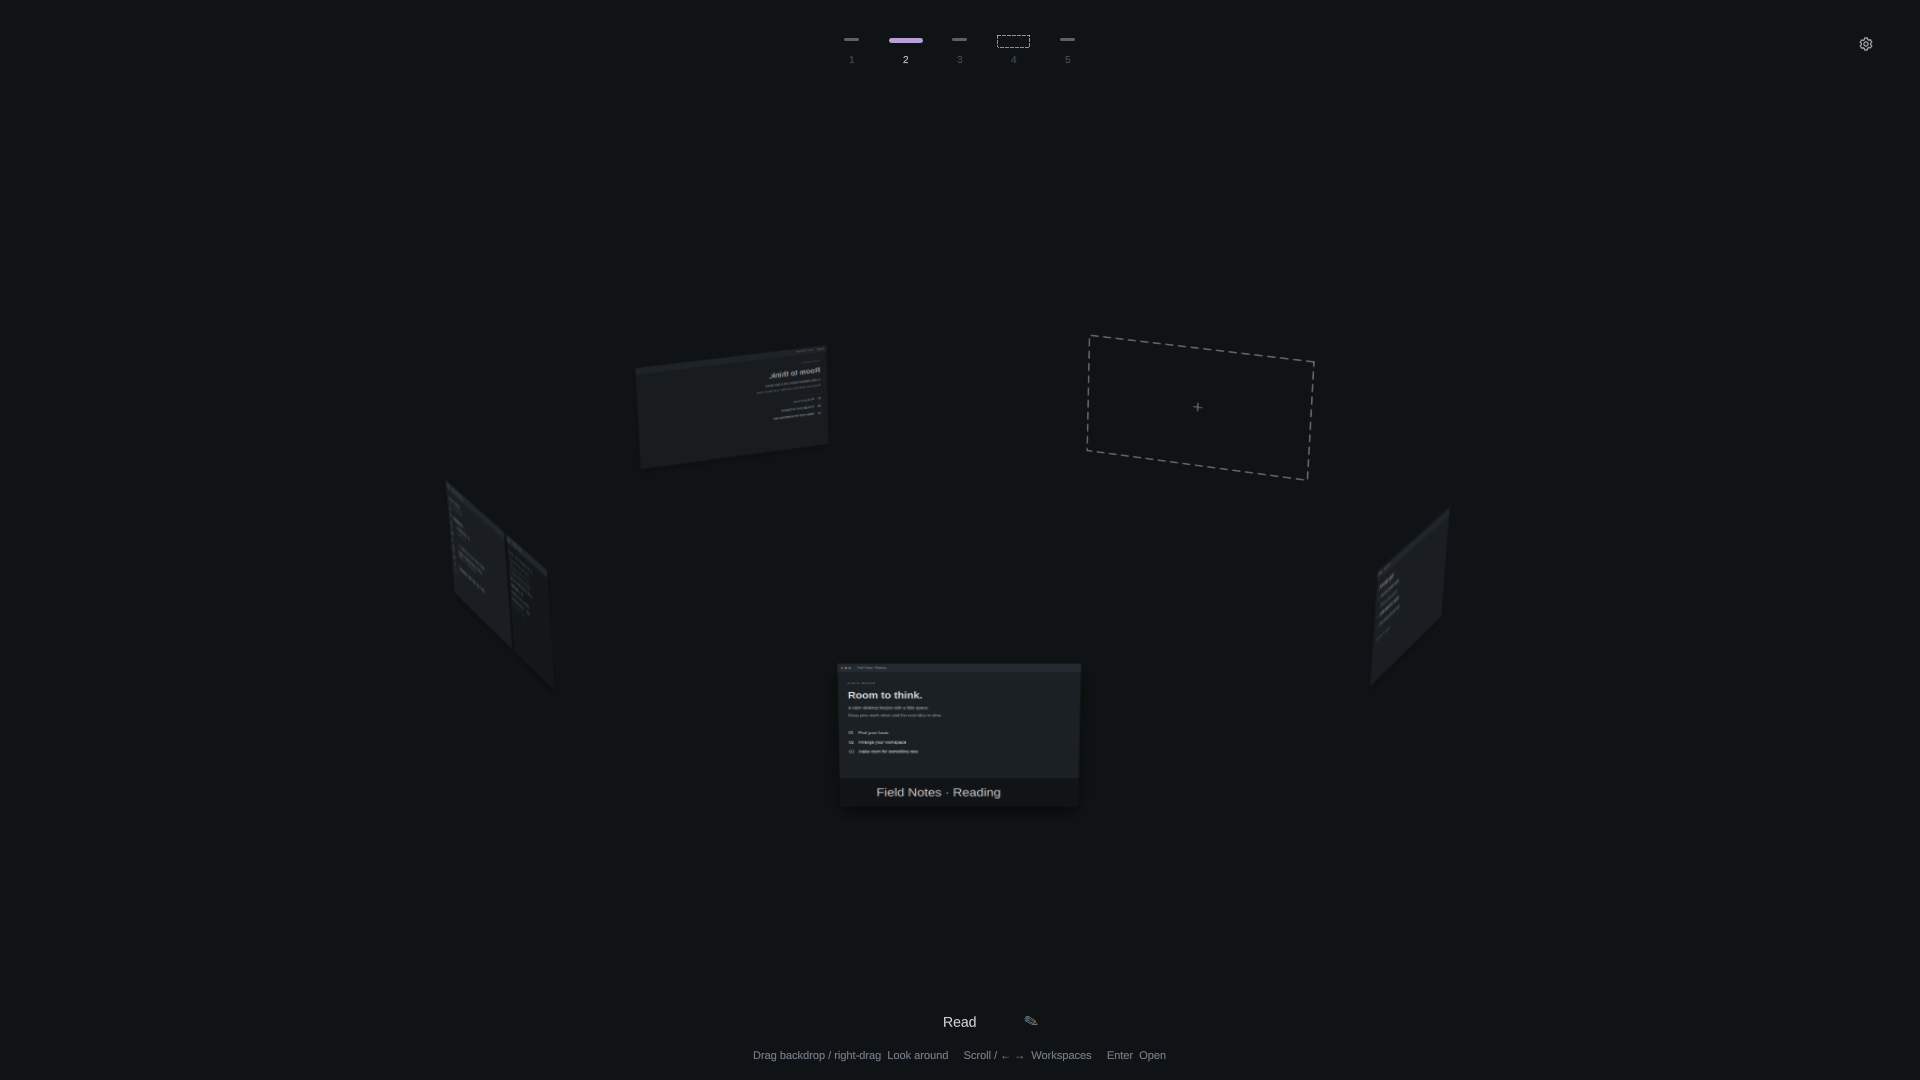
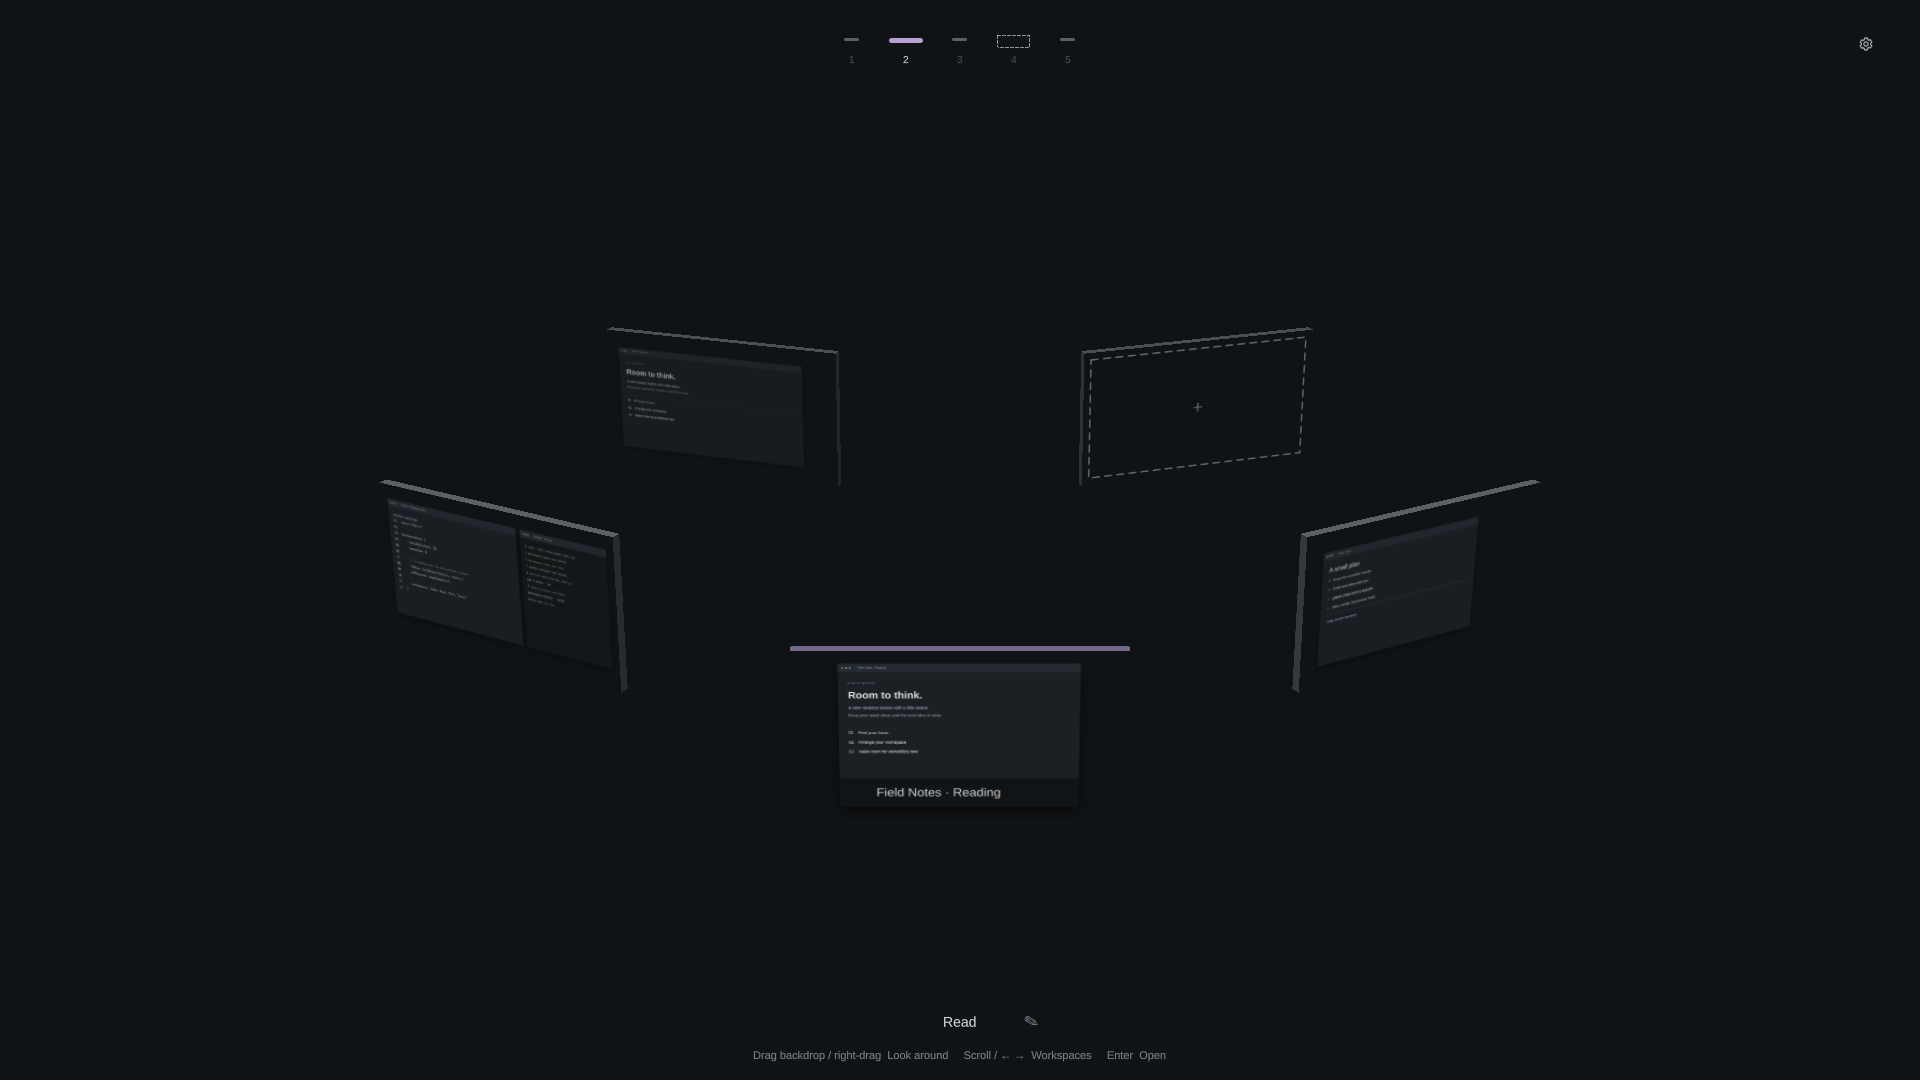
feat: render the workspace ring as 3D slabs
- Place every workspace in one perspective camera world with visible
  thickness and lit side faces, instead of flat projected rectangles
- Orient cards toward the camera so rear workspaces are no longer mirrored
- Add a regression test that fails on the previous ring for mirrored cards
- Re-render the preview images

diff --git a/WorkspaceOrbit.qml b/WorkspaceOrbit.qml
@@ -1,4 +1,5 @@
 import QtQuick
+import QtQuick.Shapes
 import Quickshell
 
 Item {
@@ -72,69 +73,133 @@ Item {
     Item {
         id: stage
         anchors.fill: parent
-        // One camera projects every point on the same horizontal world circle.
-        // Independent item rotations otherwise give each card a different
-        // vanishing point and flatten the ring into a crowded strip.
+        // One perspective camera looks at the ring centre from the +Z side.
+        // Every workspace is a slab in that shared world, so the ring has one
+        // vanishing point and each card reads as a physical object.
         readonly property real radius: Math.min(width * 0.30, height * 0.57) * root.cameraZoom
-        readonly property real cameraPitch: root.cameraElevation * Math.PI / 180
-        readonly property real cameraDistance: radius * 5.5
+        readonly property real focal: radius * 5.5
+        readonly property real cp: Math.cos(root.cameraElevation * Math.PI / 180)
+        readonly property real sp: Math.sin(root.cameraElevation * Math.PI / 180)
         readonly property real cardWidth: Math.min(310, radius * 0.78,
             2 * radius * Math.sin(Math.PI / Math.max(3, root.count)) * 0.78) * root.service.previewScale
-        function cardMatrix(theta, cardWidth, cardHeight) {
-            var s = Math.sin(theta), c = Math.cos(theta)
-            // Keep the outward direction while opening up side cards enough
-            // to remain readable rather than disappearing edge-on.
-            var yaw = Math.atan2(s * 0.55, c)
-            var sy = Math.sin(yaw), cy = Math.cos(yaw)
-            var cp = Math.cos(cameraPitch), sp = Math.sin(cameraPitch)
-            var centerX = width / 2, centerY = height / 2
-            // Local card coordinates become upright, radially oriented world
-            // planes, then share the camera's perspective divide.
-            var wx = cp * sy / cameraDistance, wy = sp / cameraDistance
-            var wc = 1 - cp * radius * c / cameraDistance - wx * cardWidth / 2 - wy * cardHeight / 2
+        readonly property real cardHeight: cardWidth * root.service.monitorHeight / root.service.monitorWidth
+        readonly property real thickness: cardWidth * 0.035
+
+        // Camera space for a vector relative to the camera: x right, y up, z forward.
+        function view(q) { return {x: q.x, y: q.y * cp - q.z * sp, z: -q.y * sp - q.z * cp} }
+        // World point of a card position. Local x follows the card's tangent,
+        // local y runs down, and lift pushes the point back along the normal.
+        function world(f, x, y, lift) {
+            return {x: f.origin.x + f.t.x * x - f.n.x * lift, y: f.origin.y - y, z: f.origin.z + f.t.z * x - f.n.z * lift}
+        }
+        function screen(p) {
+            var v = view({x: p.x, y: p.y - focal * sp, z: p.z - focal * cp})
+            return Qt.point(width / 2 + focal * v.x / v.z, height / 2 - focal * v.y / v.z)
+        }
+        // Cards face the camera's side of the ring. A small yaw toward the
+        // centre keeps side cards readable, and rear cards stay un-mirrored.
+        function cardFrame(theta) {
+            var yaw = 0.55 * Math.sin(theta)
+            var c = {x: radius * Math.sin(theta), y: 0, z: radius * Math.cos(theta)}
+            var t = {x: Math.cos(yaw), y: 0, z: -Math.sin(yaw)}
+            var n = {x: Math.sin(yaw), y: 0, z: Math.cos(yaw)}
+            return {origin: {x: c.x - t.x * cardWidth / 2, y: cardHeight / 2, z: c.z - t.z * cardWidth / 2}, t: t, n: n}
+        }
+        // Maps the card's local pixel grid through the shared camera as a 4x4 matrix.
+        function faceMatrix(f) {
+            var o = view({x: f.origin.x, y: f.origin.y - focal * sp, z: f.origin.z - focal * cp})
+            var a = view(f.t), b = view({x: 0, y: -1, z: 0})
+            var cx = width / 2, cy = height / 2
             return Qt.matrix4x4(
-                centerX * wx + cy, centerX * wy, 0, centerX * wc + radius * s - cy * cardWidth / 2,
-                centerY * wx - sp * sy, centerY * wy + cp, 0, centerY * wc + sp * radius * c + sp * sy * cardWidth / 2 - cp * cardHeight / 2,
+                focal * a.x + cx * a.z, focal * b.x + cx * b.z, 0, focal * o.x + cx * o.z,
+                -focal * a.y + cy * a.z, -focal * b.y + cy * b.z, 0, -focal * o.y + cy * o.z,
                 0, 0, 1, 0,
-                wx, wy, 0, wc)
+                a.z, b.z, 0, o.z)
+        }
+        // Screen outline of one side face of the slab, from the front edge to the back edge.
+        function edge(f, x0, y0, x1, y1) {
+            return [screen(world(f, x0, y0, 0)), screen(world(f, x1, y1, 0)),
+                    screen(world(f, x1, y1, thickness)), screen(world(f, x0, y0, thickness))]
+        }
+        // A side is drawn only when its outward normal points toward the camera.
+        function facesCamera(f, n, x, y) {
+            var m = world(f, x, y, 0)
+            return n.x * (0 - m.x) + n.y * (focal * sp - m.y) + n.z * (focal * cp - m.z) > 0
         }
         Repeater {
             model: root.service.workspaceIds
             Item {
-                id: card
+                id: unit
                 required property int modelData
                 required property int index
-                objectName: "orbit-workspace-" + modelData
+                anchors.fill: stage
                 readonly property real theta: (index - root.phase) * Math.PI * 2 / Math.max(1, root.count) - root.cameraYaw * Math.PI / 180
                 readonly property real depth: (Math.cos(theta) + 1) / 2
                 readonly property bool selected: root.service.selectedWorkspace === modelData
-                width: stage.cardWidth
-                height: width * root.service.monitorHeight / root.service.monitorWidth
-                opacity: 0.65 + depth * 0.35
+                readonly property var frame: stage.cardFrame(theta)
+                readonly property var topEdge: stage.edge(frame, 0, 0, stage.cardWidth, 0)
+                readonly property var bottomEdge: stage.edge(frame, 0, stage.cardHeight, stage.cardWidth, stage.cardHeight)
+                readonly property var leftEdge: stage.edge(frame, 0, 0, 0, stage.cardHeight)
+                readonly property var rightEdge: stage.edge(frame, stage.cardWidth, 0, stage.cardWidth, stage.cardHeight)
+                readonly property bool topFacing: stage.facesCamera(frame, {x: 0, y: 1, z: 0}, stage.cardWidth / 2, 0)
+                readonly property bool bottomFacing: stage.facesCamera(frame, {x: 0, y: -1, z: 0}, stage.cardWidth / 2, stage.cardHeight)
+                readonly property bool leftFacing: stage.facesCamera(frame, {x: -frame.t.x, y: 0, z: -frame.t.z}, 0, stage.cardHeight / 2)
+                readonly property bool rightFacing: stage.facesCamera(frame, {x: frame.t.x, y: 0, z: frame.t.z}, stage.cardWidth, stage.cardHeight / 2)
                 z: depth * 1000 + index * 0.01
-                // Render each workspace once at 2x resolution, then filter its
-                // transformed surface. The texture is bounded for older GPUs.
-                layer.enabled: true
-                layer.smooth: true
-                layer.mipmap: true
-                layer.samples: 4
-                layer.textureSize: Qt.size(Math.min(1280, Math.ceil(width * 2)), Math.min(720, Math.ceil(height * 2)))
-                transform: Matrix4x4 { matrix: stage.cardMatrix(card.theta, card.width, card.height) }
-                MouseArea {
+                opacity: 0.65 + depth * 0.35
+                // The slab's sides sit behind the preview, so the card gains real thickness.
+                Shape {
                     anchors.fill: parent
-                    cursorShape: Qt.PointingHandCursor
-                    onClicked: root.service.enterWorkspace(card.modelData, "")
+                    ShapePath {
+                        strokeColor: "transparent"
+                        fillColor: unit.topFacing ? (unit.selected ? ThemeTokens.alpha(ThemeTokens.accent, 0.6) : ThemeTokens.alpha(ThemeTokens.text, 0.45)) : "transparent"
+                        PathPolyline { path: unit.topEdge }
+                    }
+                    ShapePath {
+                        strokeColor: "transparent"
+                        fillColor: unit.rightFacing ? ThemeTokens.alpha(ThemeTokens.text, 0.14) : "transparent"
+                        PathPolyline { path: unit.rightEdge }
+                    }
+                    ShapePath {
+                        strokeColor: "transparent"
+                        fillColor: unit.leftFacing ? ThemeTokens.alpha(ThemeTokens.text, 0.22) : "transparent"
+                        PathPolyline { path: unit.leftEdge }
+                    }
+                    ShapePath {
+                        strokeColor: "transparent"
+                        fillColor: unit.bottomFacing ? ThemeTokens.alpha(ThemeTokens.text, 0.08) : "transparent"
+                        PathPolyline { path: unit.bottomEdge }
+                    }
                 }
-                // Window previews remain independently clickable above the workspace.
-                WorkspaceScene {
-                    anchors.fill: parent
-                    service: root.service; workspaceId: card.modelData
-                    miniature: !card.selected
-                }
-                MouseArea {
-                    anchors.fill: parent; enabled: !card.selected
-                    cursorShape: Qt.PointingHandCursor
-                    onClicked: root.service.enterWorkspace(card.modelData, "")
+                Item {
+                    id: card
+                    objectName: "orbit-workspace-" + unit.modelData
+                    width: stage.cardWidth
+                    height: stage.cardHeight
+                    // Render each workspace once at 2x resolution, then filter its
+                    // transformed surface. The texture is bounded for older GPUs.
+                    layer.enabled: true
+                    layer.smooth: true
+                    layer.mipmap: true
+                    layer.samples: 4
+                    layer.textureSize: Qt.size(Math.min(1280, Math.ceil(width * 2)), Math.min(720, Math.ceil(height * 2)))
+                    transform: Matrix4x4 { matrix: stage.faceMatrix(unit.frame) }
+                    MouseArea {
+                        anchors.fill: parent
+                        cursorShape: Qt.PointingHandCursor
+                        onClicked: root.service.enterWorkspace(unit.modelData, "")
+                    }
+                    // Window previews remain independently clickable above the workspace.
+                    WorkspaceScene {
+                        anchors.fill: parent
+                        service: root.service; workspaceId: unit.modelData
+                        miniature: !unit.selected
+                    }
+                    MouseArea {
+                        anchors.fill: parent; enabled: !unit.selected
+                        cursorShape: Qt.PointingHandCursor
+                        onClicked: root.service.enterWorkspace(unit.modelData, "")
+                    }
                 }
             }
         }

diff --git a/tests/ui/tst_orbit.qml b/tests/ui/tst_orbit.qml
@@ -51,6 +51,22 @@ Item {
                 }
             }
         }
+        function test_cards_are_never_mirrored() {
+            var angles = [0, 45, 90, 180], elevations = [12, 22, 36]
+            for (var e = 0; e < elevations.length; e++) {
+                for (var a = 0; a < angles.length; a++) {
+                    orbit.cameraElevation = elevations[e]; orbit.cameraYaw = angles[a]
+                    for (var id = 1; id <= 5; id++) {
+                        var item = card(id)
+                        var origin = item.mapToItem(scene, 0, 0)
+                        var right = item.mapToItem(scene, item.width, 0)
+                        var down = item.mapToItem(scene, 0, item.height)
+                        verify(right.x > origin.x, 'card ' + id + ' is mirrored at yaw ' + angles[a])
+                        verify(down.y > origin.y, 'card ' + id + ' is upside down at yaw ' + angles[a])
+                    }
+                }
+            }
+        }
         function test_projected_click_enters_chosen_workspace() {
             var point = center(2)
             mouseClick(scene, point.x, point.y)
